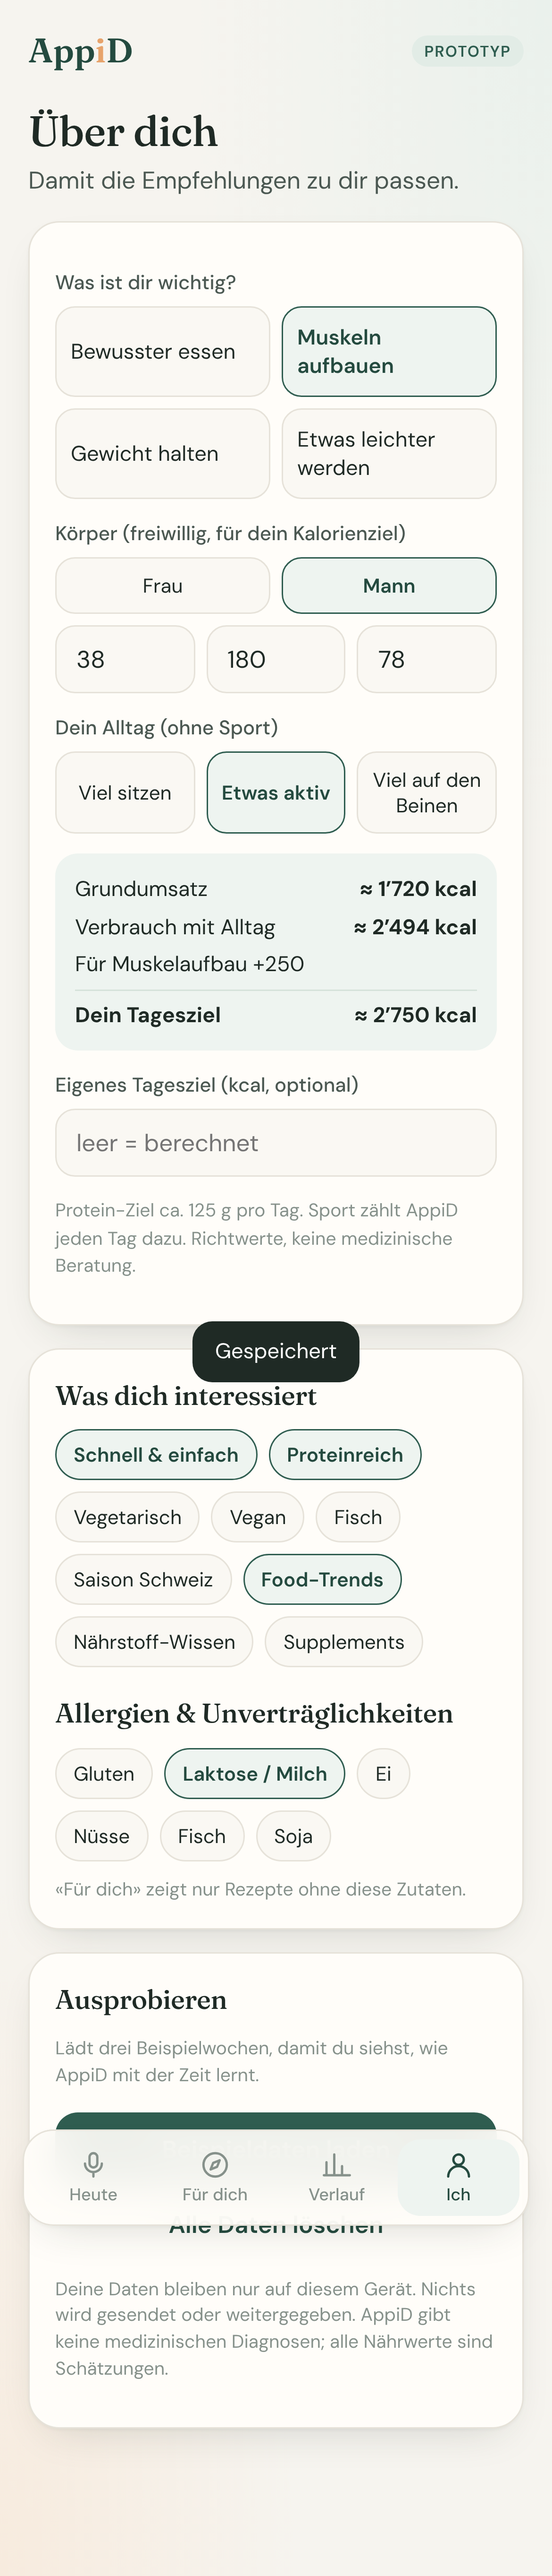
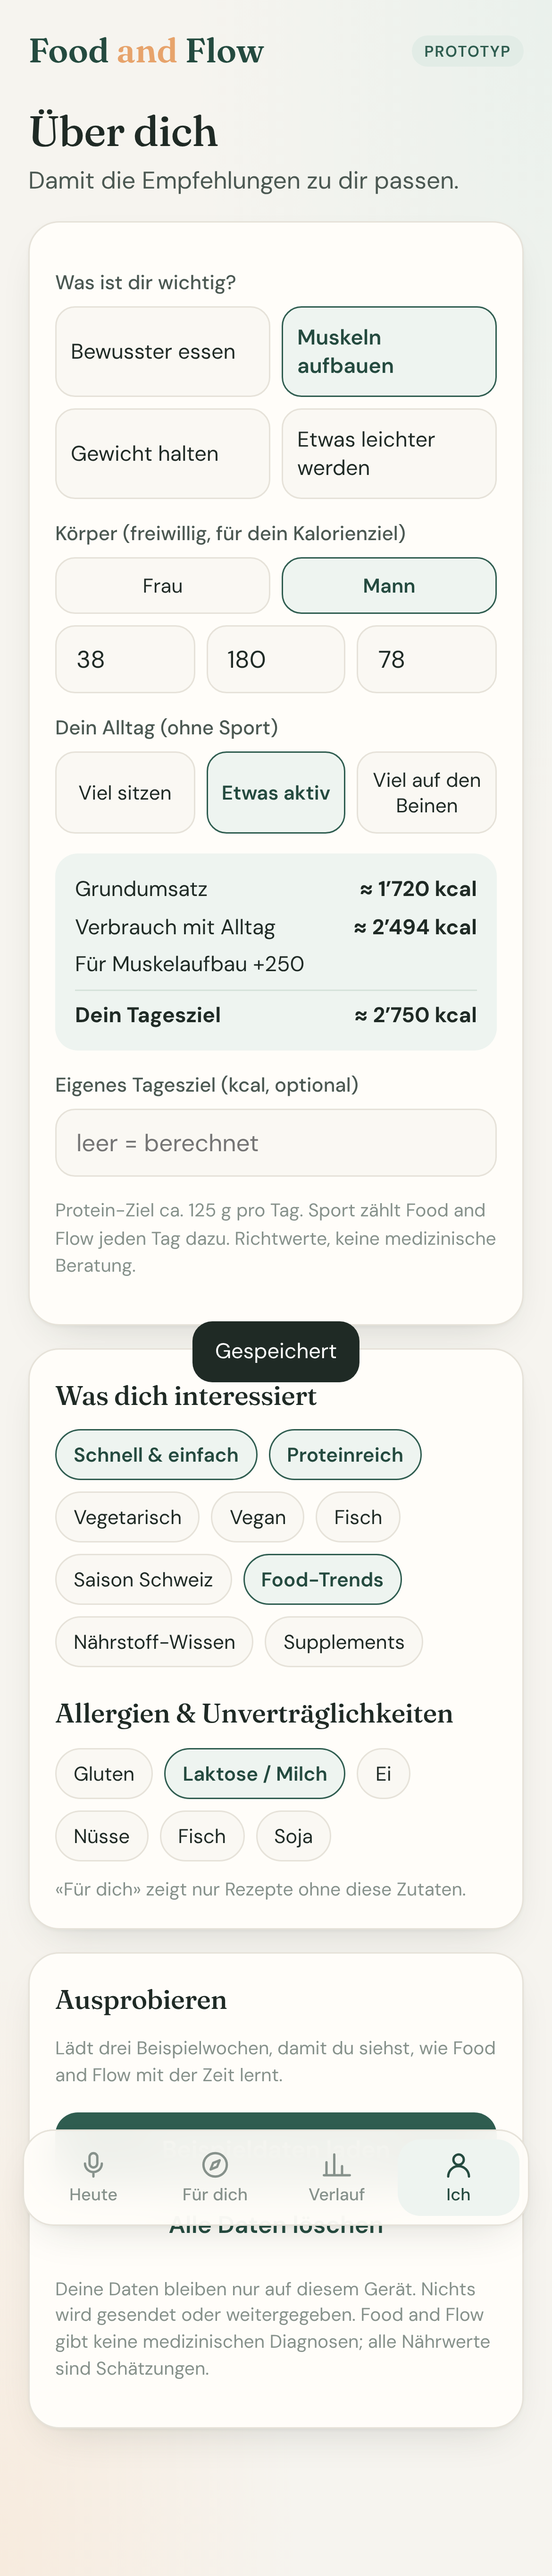
Food and Flow: neuer App-Name, Figur Flo bestätigt
Claude-Session: https://claude.ai/code/session_01Rf6DK5kSQcRZkJafptisAW

diff --git a/appid/index.html b/appid/index.html
@@ -6,7 +6,7 @@
 <meta name="apple-mobile-web-app-capable" content="yes">
 <meta name="mobile-web-app-capable" content="yes">
 <meta name="apple-mobile-web-app-status-bar-style" content="default">
-<meta name="apple-mobile-web-app-title" content="AppiD">
+<meta name="apple-mobile-web-app-title" content="Food and Flow">
 <meta name="theme-color" content="#f6f4ef">
 <meta name="color-scheme" content="light">
 <meta name="description" content="Dein Essen verstehen, ohne darüber nachdenken zu müssen.">
@@ -16,7 +16,7 @@
 <link rel="preconnect" href="https://fonts.googleapis.com">
 <link rel="preconnect" href="https://fonts.gstatic.com" crossorigin>
 <link href="https://fonts.googleapis.com/css2?family=Fraunces:opsz,wght@9..144,400;9..144,500;9..144,600&family=DM+Sans:opsz,wght@9..40,400;9..40,500;9..40,600;9..40,700&display=swap" rel="stylesheet">
-<title>AppiD</title>
+<title>Food and Flow</title>
 <style>
 :root{
   --bg:#f6f4ef; --card:#fffdf9; --ink:#1f2a25; --ink2:#4b5852; --muted:#86918b; --line:#e6e2d9;
@@ -205,7 +205,7 @@ h1,h2,h3{font-family:var(--serif);font-weight:500;letter-spacing:-.01em;margin:0
 <body>
 <div class="app">
   <div class="top">
-    <div class="brand">App<span>i</span>D</div>
+    <div class="brand">Food <span>and</span> Flow</div>
     <span class="tag">Prototyp</span>
   </div>
 
@@ -245,7 +245,7 @@ h1,h2,h3{font-family:var(--serif);font-weight:500;letter-spacing:-.01em;margin:0
       <div class="micro" id="micro"></div>
       <div id="meals"></div>
       <button class="addact" id="addact">+ Bewegung hinzufügen</button>
-      <p class="small" style="margin:14px 0 0">Alle Werte sind <span class="est">Schätzungen</span>. Mengen mit ≈ hat AppiD angenommen.</p>
+      <p class="small" style="margin:14px 0 0">Alle Werte sind <span class="est">Schätzungen</span>. Mengen mit ≈ hat Food and Flow angenommen.</p>
     </div>
   </section>
 
@@ -255,13 +255,13 @@ h1,h2,h3{font-family:var(--serif);font-weight:500;letter-spacing:-.01em;margin:0
     <p class="sub">Rezepte, Trends und Wissen, passend zu deinem Ziel.</p>
     <div class="filters" id="filters"></div>
     <div id="feed"></div>
-    <p class="small" style="margin:18px 4px 0">Trends prüft AppiD an seriösen Quellen und zeigt, wie gut sie belegt sind. Keine Heilversprechen.</p>
+    <p class="small" style="margin:18px 4px 0">Trends prüft Food and Flow an seriösen Quellen und zeigt, wie gut sie belegt sind. Keine Heilversprechen.</p>
   </section>
 
   <!-- VERLAUF -->
   <section class="view" id="v-verlauf">
     <h1 class="hello">Dein Verlauf</h1>
-    <p class="sub">Was AppiD über deine Gewohnheiten gelernt hat.</p>
+    <p class="sub">Was Food and Flow über deine Gewohnheiten gelernt hat.</p>
     <div class="card">
       <h3>Protein, letzte 7 Tage</h3>
       <div class="week" id="week"></div>
@@ -310,10 +310,10 @@ h1,h2,h3{font-family:var(--serif);font-weight:500;letter-spacing:-.01em;margin:0
     </div>
     <div class="card">
       <h3>Ausprobieren</h3>
-      <p class="small" style="margin:0">Lädt drei Beispielwochen, damit du siehst, wie AppiD mit der Zeit lernt.</p>
+      <p class="small" style="margin:0">Lädt drei Beispielwochen, damit du siehst, wie Food and Flow mit der Zeit lernt.</p>
       <button class="btn" id="demo">Beispieldaten laden</button>
       <button class="btn ghost" id="reset">Alle Daten löschen</button>
-      <p class="note">Deine Daten bleiben nur auf diesem Gerät. Nichts wird gesendet oder weitergegeben. AppiD gibt keine medizinischen Diagnosen; alle Nährwerte sind Schätzungen.</p>
+      <p class="note">Deine Daten bleiben nur auf diesem Gerät. Nichts wird gesendet oder weitergegeben. Food and Flow gibt keine medizinischen Diagnosen; alle Nährwerte sind Schätzungen.</p>
     </div>
   </section>
 </div>
@@ -663,7 +663,7 @@ function renderTip(){
   } else if(t.fib<15){
     html=`<p>Ballaststoffe sind heute noch knapp. Vollkornbrot statt Weissbrot oder ein Apfel helfen schon.</p>`;
   } else html=`<p>Ein ausgewogener Tag bisher. Weiter so, ganz ohne Stress.</p>`;
-  el.innerHTML=lbl+html+(a.days<7&&a.days>0?`<p class="small" style="margin:6px 0 0">AppiD lernt noch: ${a.days} von 7 Tagen erfasst.</p>`:"");
+  el.innerHTML=lbl+html+(a.days<7&&a.days>0?`<p class="small" style="margin:6px 0 0">Food and Flow lernt noch: ${a.days} von 7 Tagen erfasst.</p>`:"");
 }
 
 function renderVerlauf(){
@@ -757,8 +757,8 @@ function renderIch(){
   if(document.activeElement!==$("#kcalgoal"))$("#kcalgoal").value=P.kcalOwn||"";
   const E=energy();
   $("#energy").innerHTML=E.full?`<div class="row"><span>Grundumsatz</span><b>≈ ${fmt(E.bmr)} kcal</b></div><div class="row"><span>Verbrauch mit Alltag</span><b>≈ ${fmt(E.tdee)} kcal</b></div><div class="row"><span>${E.adj<0?"Für dein Ziel −400":E.adj>0?"Für Muskelaufbau +250":"Für dein Ziel ±0"}</span><b></b></div><div class="row" style="border-top:1px solid #d5e2da;margin-top:4px;padding-top:6px"><span><b>Dein Tagesziel</b></span><b>≈ ${fmt(E.goal)} kcal${E.own?" (eigenes)":""}</b></div>`
-    :`<div class="row"><span>Tagesziel</span><b>≈ ${fmt(E.goal)} kcal</b></div><div class="small">Mit Geschlecht, Alter, Grösse und Gewicht rechnet AppiD dein persönliches Ziel.</div>`;
-  $("#goalinfo").textContent=`Protein-Ziel ca. ${proteinGoal()} g pro Tag. Sport zählt AppiD jeden Tag dazu. Richtwerte, keine medizinische Beratung.`;
+    :`<div class="row"><span>Tagesziel</span><b>≈ ${fmt(E.goal)} kcal</b></div><div class="small">Mit Geschlecht, Alter, Grösse und Gewicht rechnet Food and Flow dein persönliches Ziel.</div>`;
+  $("#goalinfo").textContent=`Protein-Ziel ca. ${proteinGoal()} g pro Tag. Sport zählt Food and Flow jeden Tag dazu. Richtwerte, keine medizinische Beratung.`;
   $("#intpills").innerHTML=INTERESTS.map(([k,n])=>`<button class="pill ${P.interests.includes(k)?"on":""}" data-i="${k}">${n}</button>`).join("");
   $("#allpills").innerHTML=ALLERG.map(([k,n])=>`<button class="pill ${P.allergies.includes(k)?"on":""}" data-al="${k}">${n}</button>`).join("");
   $("#intpills").querySelectorAll("[data-i]").forEach(b=>b.onclick=()=>{toggle(P.interests,b.dataset.i);save();renderIch()});

diff --git a/appid/FIGUR.md b/appid/FIGUR.md
@@ -1,8 +1,8 @@
-# AppiD / Florence – Figur «Flo» (Entwurf, 14.10.2026)
+# Food and Flow – Figur «Flo» (Entwurf, 14.10.2026)
 
-Status: Konzept, noch nicht in der App eingebaut (erst nach Diegos Go). Name «Flo» noch zu bestätigen.
+Status: Konzept, noch nicht in der App eingebaut (erst nach Diegos Go). Name «Flo» von Diego bestätigt (14.10.2026).
 
-Rolle: Gesicht und Stimme der Ernährungs- und Gesundheits-App. Sie begleitet, erklärt und gibt die persönlichen Tipps.
+Rolle: Gesicht und Stimme von Food and Flow (Ernährungs- und Gesundheits-App). Sie begleitet, erklärt und gibt die persönlichen Tipps.
 
 Look: junge, sportliche, coole Roboter-KI-Frau in Sportkleidung. Weiss-mintgrüne Körperteile mit feinen leuchtenden Linien, kleiner leuchtender Herzkern, kurze Sportjacke in Navy, mintgrüne Leggings, weisse Laufschuhe.
 
